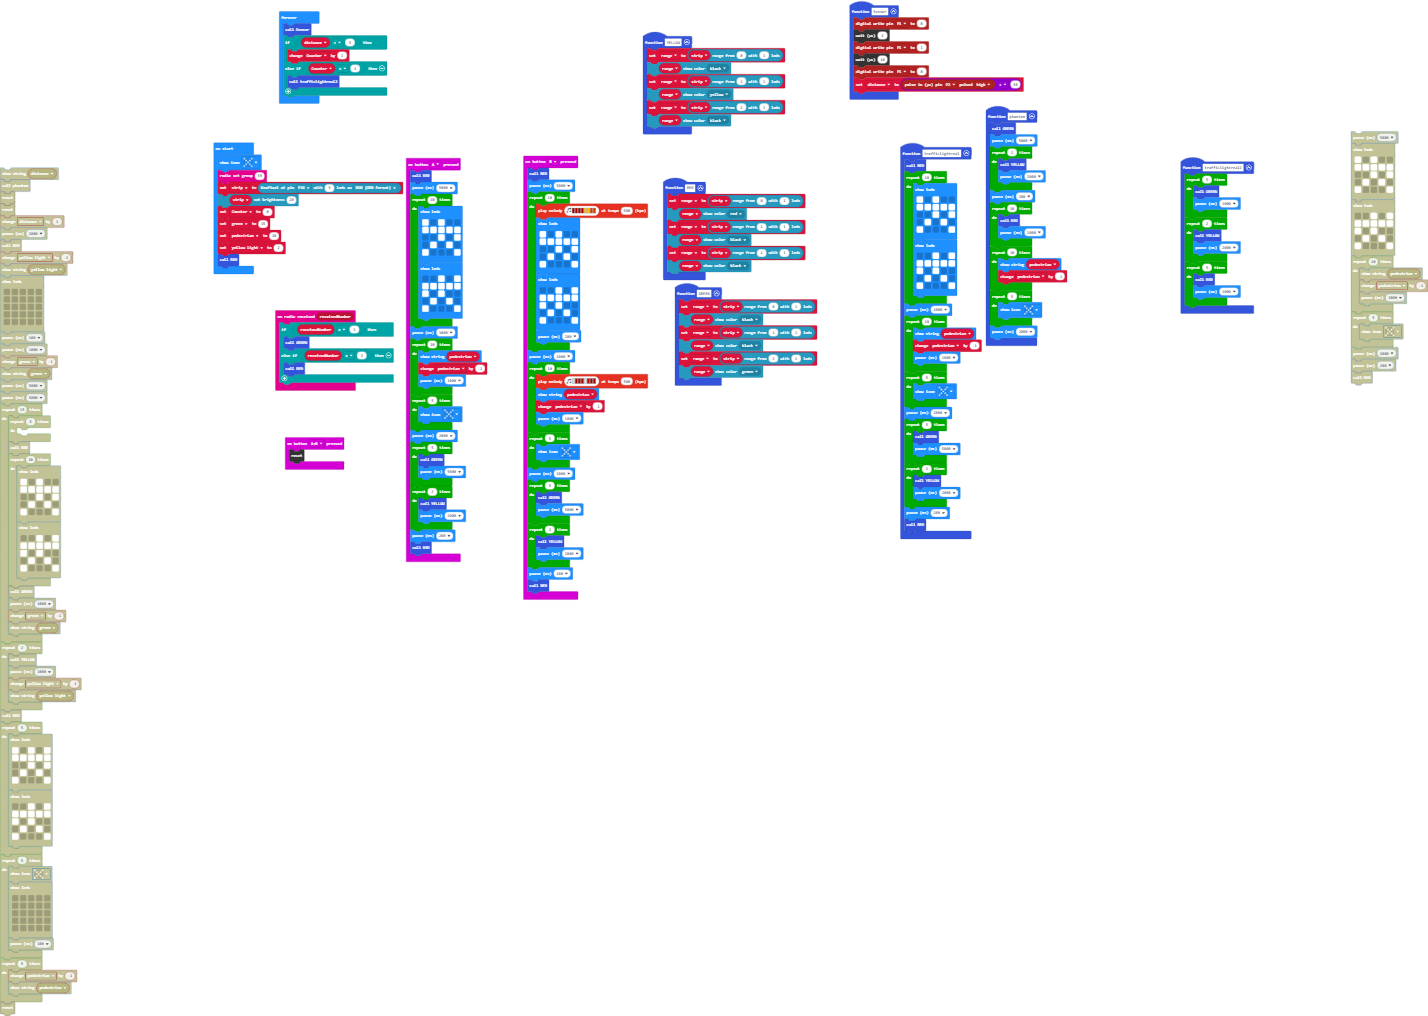
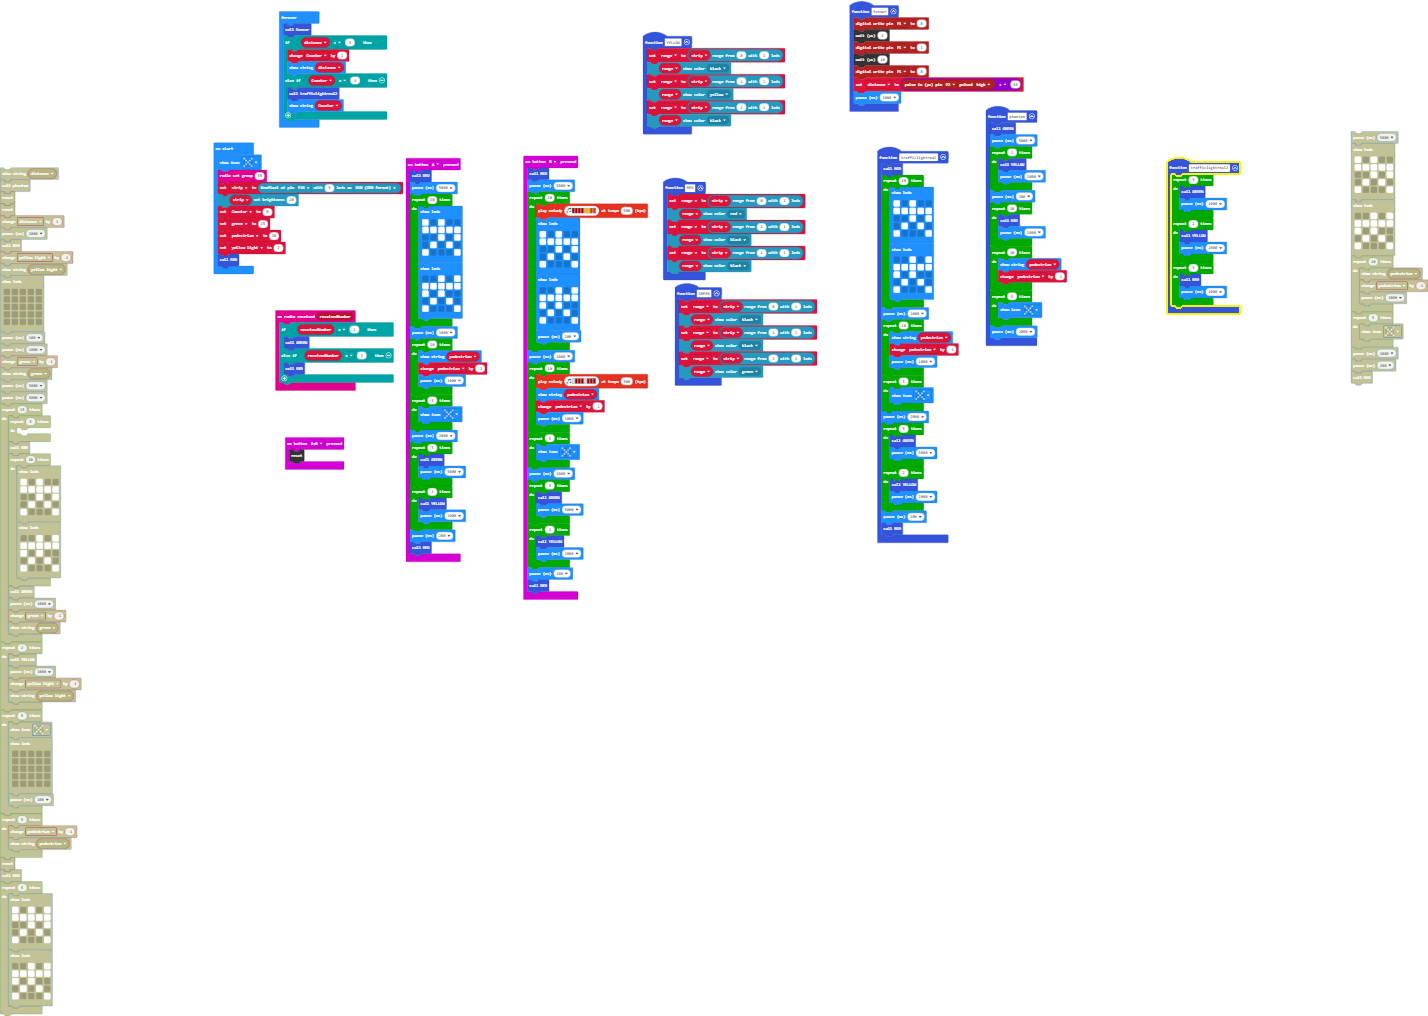
Update main.blocks, main.ts

diff --git a/main.ts b/main.ts
@@ -12,6 +12,7 @@ function Sensor () {
     control.waitMicros(10)
     pins.digitalWritePin(DigitalPin.P1, 0)
     distance = pins.pulseIn(DigitalPin.P2, PulseValue.High) / 58
+    basic.pause(2000)
 }
 function phantom () {
     GREEN()
@@ -214,7 +215,9 @@ basic.forever(function () {
     Sensor()
     if (distance < 5) {
         Counter += 1
+        basic.showString("" + (distance))
     } else if (Counter == 4) {
         trafficlightreal2()
+        basic.showString("" + (Counter))
     }
 })
